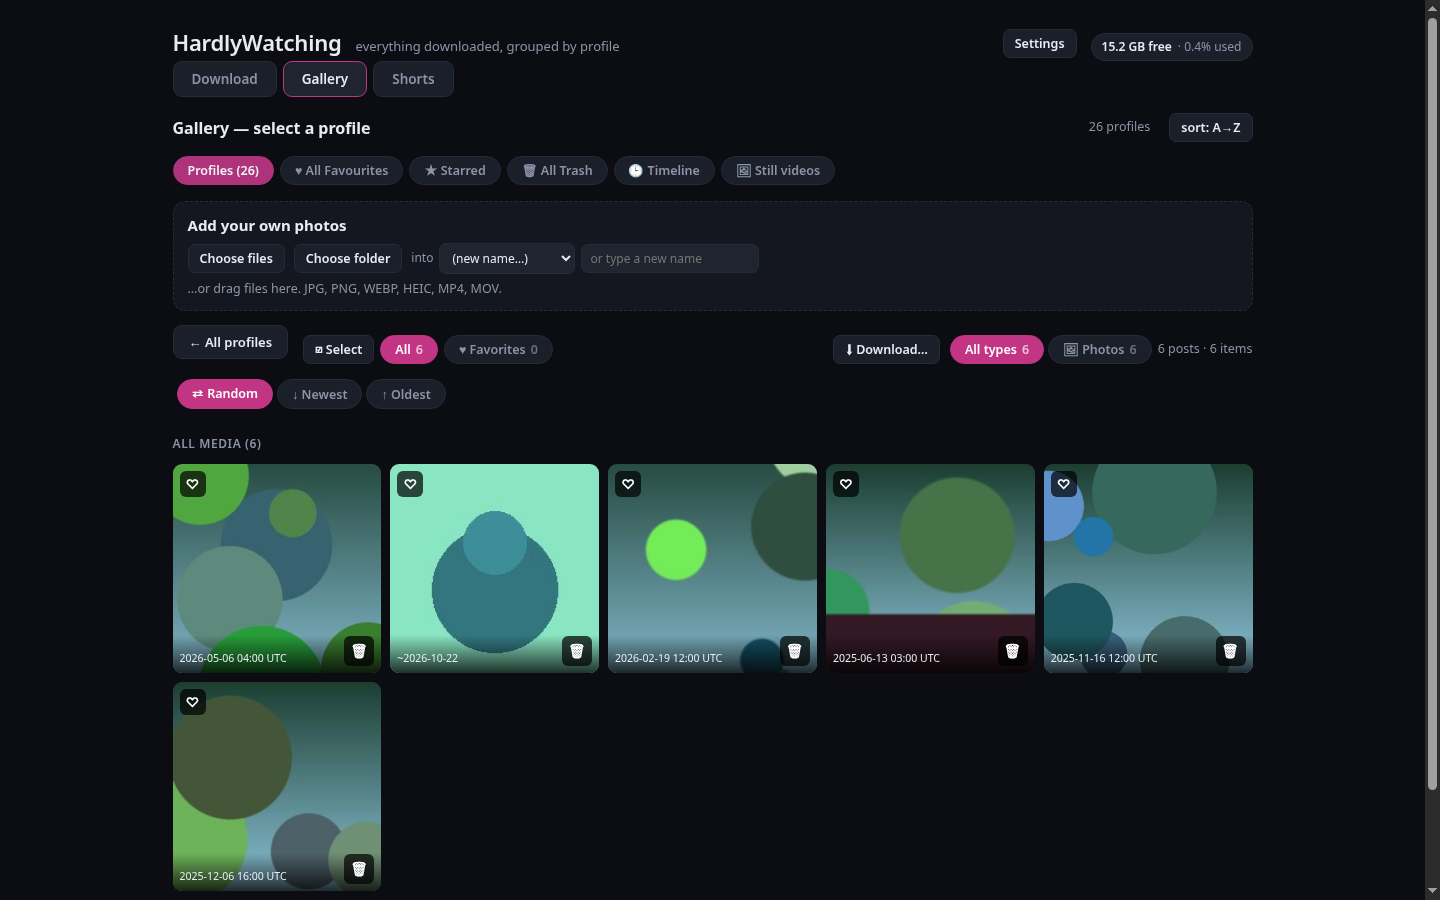
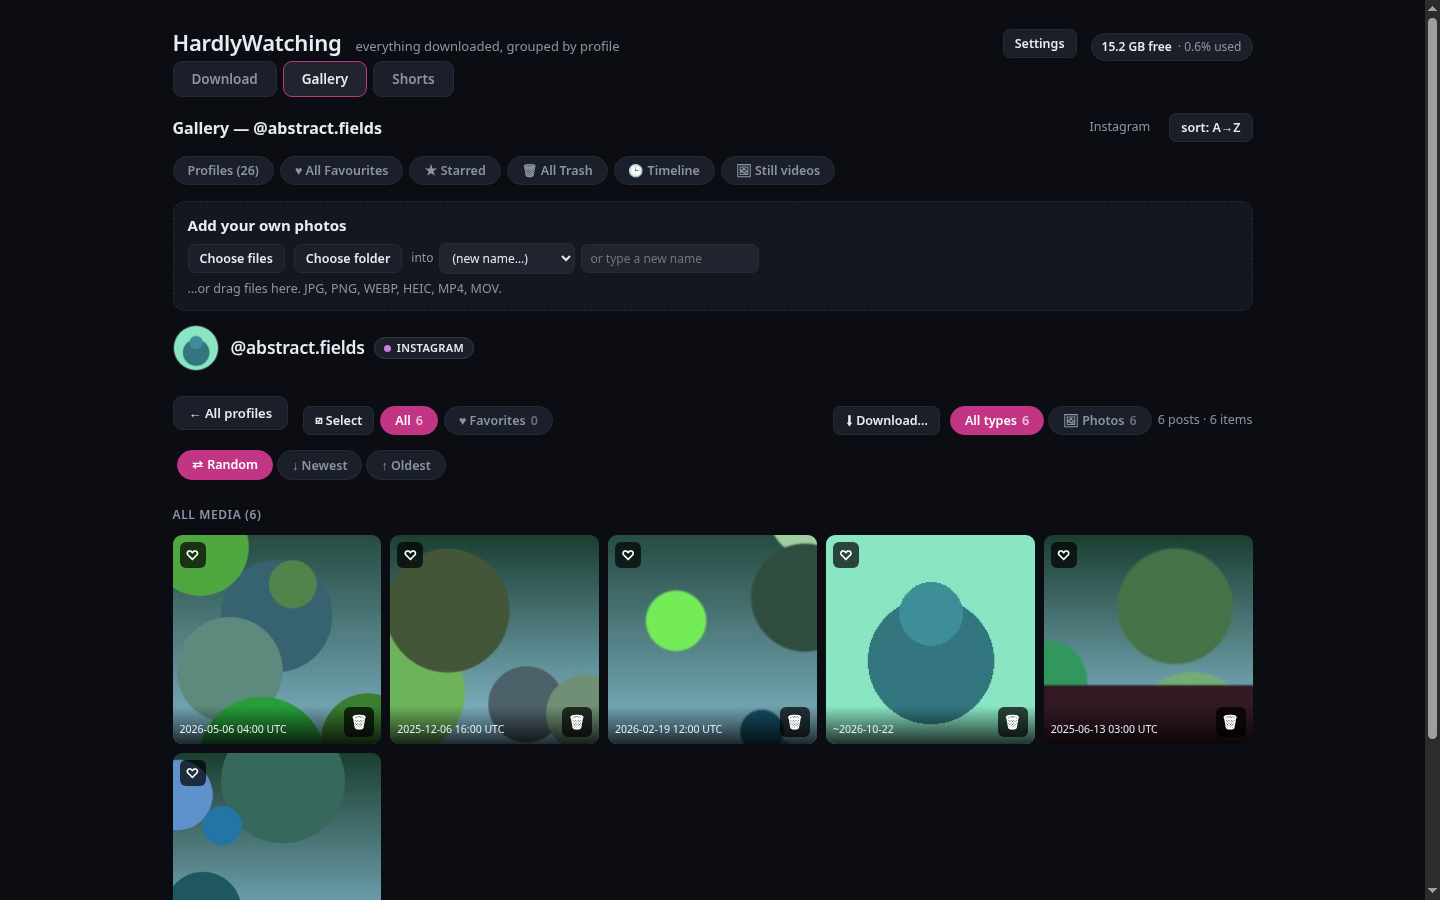
Say whose profile is open, and on which site
A profile's grid began with a row of controls and no name anywhere, so a plain
card, a merged card and either site all looked alike. Lead with the avatar, the
handle and a badge naming the site, and give a merged card its split so two
kinds of tile in one grid is stated rather than puzzling.

Which badge shows is counted from the posts actually loaded, not from the tab
the card was opened on: a merged card appears under both tabs.

The heading said 'select a profile' while one was open; it now names it and
gives the site, and goes back to the invitation on the way out. Merged cards in
the profile list name the other site too. Documentation screenshot re-shot from
the synthetic archive.

diff --git a/index.html b/index.html
@@ -439,6 +439,24 @@
   .gempty{color:var(--muted);font-size:13.5px;padding:22px 0}
 
   /* ---------- gallery filters + per-photo actions ---------- */
+  /* Whose profile is open, on which site, and whether the card merges both.
+     The grid used to begin with a row of controls and no name anywhere. */
+  .phead{display:flex;gap:12px;align-items:center;margin:0 0 13px;flex-wrap:wrap}
+  .phead .pav{width:46px;height:46px;border-radius:50%;object-fit:cover;flex:none;
+    border:1px solid var(--line-2);background:var(--panel-2)}
+  .phead .pid{min-width:0}
+  .phead .pname{display:flex;gap:9px;align-items:center;flex-wrap:wrap;
+    font-size:17.5px;font-weight:650;letter-spacing:-.01em;line-height:1.25}
+  .phead .pname .at{color:var(--muted);font-weight:400}
+  .phead .psub{color:var(--muted);font-size:12.5px;margin-top:3px}
+  .badge{display:inline-flex;align-items:center;gap:6px;padding:3px 9px;
+    border-radius:999px;border:1px solid var(--line-2);background:var(--panel-2);
+    color:var(--text);font-size:11px;font-weight:600;letter-spacing:.03em;
+    text-transform:uppercase}
+  .badge .dot{width:7px;height:7px;border-radius:50%;background:var(--muted)}
+  .badge.ig .dot{background:#d27ae0}
+  .badge.tt .dot{background:#48dccd}
+  .badge.merged .dot{background:linear-gradient(90deg,#d27ae0 0 50%,#48dccd 50% 100%)}
   .gbar{display:flex;gap:6px;align-items:center;flex-wrap:wrap;margin:0 0 14px}
   .fchip{background:var(--panel-2);border:1px solid var(--line);color:var(--muted);
     border-radius:20px;padding:5px 14px;font-size:12.5px;cursor:pointer;
@@ -603,7 +621,7 @@
 
   <div id="galleryPane" class="pane" style="display:none">
     <div class="gallery-head">
-      <b style="font-size:16px">Gallery — select a profile</b>
+      <b id="galleryTitle" style="font-size:16px">Gallery — select a profile</b>
       <span class="hint" id="galleryHint" style="margin-left:auto">done archives only</span>
     </div>
     <div class="gbar" id="allBar" style="margin-bottom:16px"></div>
@@ -4640,6 +4658,8 @@ async function renderGallery(){
   fillUploadProfiles(profiles);
   buildAllBar(profiles.length);
   const live = profiles.filter(p => p.downloading).length;
+  const gt = $("galleryTitle");
+  if(gt) gt.textContent = "Gallery — select a profile";
   $("galleryHint").textContent = profiles.length
     ? `${profiles.length} ${profiles.length===1?"profile":"profiles"}`
       + (live ? ` · ${live} downloading` : "")
@@ -4660,7 +4680,10 @@ async function renderGallery(){
         : ""}
       <div class="nm">${esc(p.username)}</div>
       <div class="ct">${p.count} ${p.count===1?"item":"items"}</div>
-      ${p.merged ? `<div class="mg" title="${esc((p.merged_platforms||[]).join(" + ") || "same site")}">+ @${p.merged.map(esc).join(" @")}</div>` : ""}
+      ${p.merged ? `<div class="mg" title="${esc((p.merged_platforms||[]).join(" + ") || "same site")}">+ @${p.merged.map(esc).join(" @ ")}${
+        (p.merged_platforms||[]).length
+          ? ` · ${(p.merged_platforms||[]).map(s => s === "tiktok" ? "TikTok" : "Instagram").join(" + ")}`
+          : ""}</div>` : ""}
       ${p.merged ? `<button class="split" title="Different people — keep them apart">&#8901;&#8901;&#8901;</button>` : ""}
     </div>`).join("");
   for(const card of host.querySelectorAll(".pcard")){
@@ -5078,6 +5101,61 @@ function drawPhotos(username, sec){
   const items = allPosts.reduce((n,p) => n + p.count, 0);
   const vids = allPosts.reduce((n,p) => n + p.items.filter(i => i.kind === "video").length, 0);
 
+  // Whose profile is open, and is it one site or two? A card can merge the same
+  // handle from Instagram and TikTok, and the grid looked identical either way
+  // -- there was no name on screen at all, just a row of controls. Count what
+  // is actually here rather than trusting the tab we came from: a merged card
+  // shows up under both tabs.
+  const byPlat = {instagram: 0, tiktok: 0};
+  for(const p of allPosts) byPlat[p.platform === "tiktok" ? "tiktok" : "instagram"] += 1;
+  const sites = ["instagram", "tiktok"].filter(k => byPlat[k]);
+  const merged = sites.length > 1;
+  const look = merged ? (gPlatform === "tiktok" ? "tiktok" : "instagram")
+                      : (sites[0] || gPlatform || "instagram");
+  const head = document.createElement("div");
+  head.className = "phead";
+  head.style.gridColumn = "1/-1";
+  const face = document.createElement("img");
+  face.className = "pav";
+  face.alt = "";
+  face.loading = "lazy";
+  face.src = `/api/profile-pic?profile=${encodeURIComponent(username)}`
+    + `&platform=${encodeURIComponent(look)}`;
+  face.onerror = () => { face.style.visibility = "hidden"; };
+  const pid = document.createElement("div");
+  pid.className = "pid";
+  const nm = document.createElement("div");
+  nm.className = "pname";
+  const badge = merged
+    ? `<span class="badge merged"><span class="dot"></span>Instagram + TikTok</span>`
+    : `<span class="badge ${look === "tiktok" ? "tt" : "ig"}"><span class="dot"></span>${
+        look === "tiktok" ? "TikTok" : "Instagram"}</span>`;
+  // Escaped: the handle is the only variable here, and esc() is the same guard
+  // the rest of the bar uses.
+  nm.innerHTML = `<span>@${esc(username)}</span>${badge}`;
+  pid.appendChild(nm);
+  if(merged){
+    // Why the grid holds two kinds of tile, said once instead of left to be
+    // puzzled over.
+    const sub = document.createElement("div");
+    sub.className = "psub";
+    sub.textContent = `Same handle on both sites · ${byPlat.instagram} Instagram`
+      + ` · ${byPlat.tiktok} TikTok`;
+    pid.appendChild(sub);
+  }
+  head.appendChild(face);
+  head.appendChild(pid);
+
+  // The heading said "select a profile" while one was open, which read as a
+  // bug from inside a profile. Name it here; renderGallery puts it back.
+  const gt = $("galleryTitle");
+  if(gt) gt.textContent = `Gallery — @${username}`;
+  const gh = $("galleryHint");
+  if(gh){
+    gh.textContent = merged ? "Instagram + TikTok"
+      : (look === "tiktok" ? "TikTok" : "Instagram");
+  }
+
   // Media-type filter. A post counts as video if ANY of its parts is a video,
   // so a carousel mixing images and a clip lands under Videos.
   const isVideoPost = (p) => p.items.some(i => i.kind === "video");
@@ -5121,6 +5199,7 @@ function drawPhotos(username, sec){
     sgroup.appendChild(b);
   }
   bar.appendChild(sgroup);
+  host.appendChild(head);
   host.appendChild(bar);
 
   const grid = document.createElement("div");
@@ -5168,6 +5247,8 @@ function drawPhotos(username, sec){
       : gFilter === "favorites" ? "No favorites yet — tap ♡ on a photo to add one."
       : gFilter === "trash" ? "Trash is empty."
       : "No displayable media in this archive."}</div>`;
+    // Still say whose profile this is, even with nothing to show.
+    host.appendChild(head);
     host.appendChild(grid);
     return;
   }
@@ -5228,7 +5309,7 @@ async function patchGalleryCounts(){
   }
   const live = (data.profiles || []).filter(p => p.downloading).length;
   const hint = $("galleryHint");
-  if(hint){
+  if(hint && !gProfile){
     const n = (data.profiles || []).length;
     hint.textContent = `${n} ${n===1?"profile":"profiles"}`
       + (live ? ` · ${live} downloading` : "");

diff --git a/CHANGELOG.md b/CHANGELOG.md
@@ -6,6 +6,16 @@ versioning is [SemVer](https://semver.org/).
 ## [Unreleased]
 
 ### Added
+- **A profile view says whose profile it is.** The grid used to open with a row
+  of controls and no name anywhere: a plain card, a merged one and either site
+  all looked alike. It now leads with the avatar, the handle, and a badge naming
+  the site — Instagram, TikTok, or *Instagram + TikTok* when the card folds the
+  same handle from both. A merged card also spells out its split ("Same handle
+  on both sites · 3 Instagram · 379 TikTok"), which is the answer to the obvious
+  puzzle of why one grid holds two kinds of tile. Merged cards in the profile
+  list name the other site too (`+ @handle · TikTok`). Which badge shows is
+  counted from the posts actually loaded, not from the tab you arrived on, since
+  a merged card appears under both tabs.
 - **A timeline of one profile.** The Timeline chip does what the Shorts tab
   already did: opened from inside a profile's grid it shows that profile alone —
   their months on the slider, their posts, their year list — with a chip naming

diff --git a/README.md b/README.md
@@ -61,7 +61,9 @@ archive-wide views and a box to add your own photos or folders.
 ![The gallery: profile cards, with All Favourites, All Trash and Timeline](docs/gallery.png)
 
 **One profile** — its posts as a grid, filterable by media type and sorted however
-you like.
+you like. The top says whose profile you are in and which site it came from; a
+card that folds the same handle from both sites says so and gives each site's
+share, and the heading names the profile instead of asking you to select one.
 
 ![A single profile's post grid with media filters and sort options](docs/gallery-profiles.png)
 
